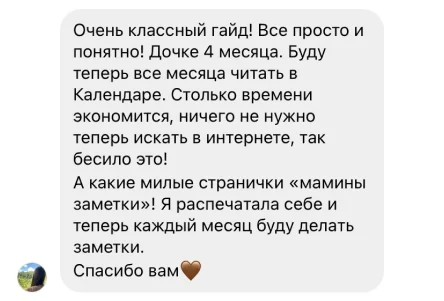
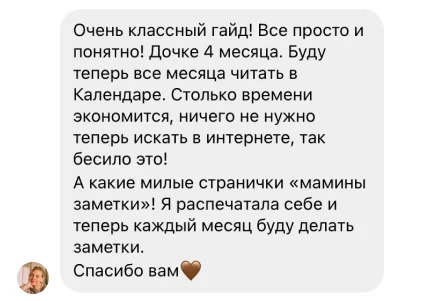
Добавил видео о калндаре + отзывы

Changed region(s): [[0.0293, 0.8671, 0.1171, 0.9867]]

diff --git a/src/pages/Calendar/Calendar.js b/src/pages/Calendar/Calendar.js
@@ -15,6 +15,7 @@ import whatsapp from "../../images/calendar/whatsapp.svg";
 import review1 from '../../images/calendar/review1.webp';
 import review2 from '../../images/calendar/review2.webp';
 import review3 from '../../images/calendar/review3.webp';
+import julia from '../../images/calendar/julia.webp';
 // import Swiper
 import { Swiper, SwiperSlide } from 'swiper/react';
 import { Pagination } from 'swiper';
@@ -61,7 +62,12 @@ const Calendar = () => {
       <section className="gayd-section about">
         <div className="wrapper">
           <div className="gayd-about-title">
-            <h2>Привет, я — Юля!</h2>
+            <div className="gayd-about-inner">
+              <h2>Привет, я — Юля!</h2>
+              <div className="gayd-about-img">
+                <img src={julia} alt="Фотография Юлии Раткевич"/>
+              </div>
+            </div>
             <p>
               Я мама и автор блога <Link to={''}>@momjulee</Link>,
               где делюсь полезными и простыми деями для творчества и развития детей, а также личным опытом о развитии и воспитании ребенка.
@@ -136,7 +142,9 @@ const Calendar = () => {
                     // https://developers.google.com/youtube/player_parameters
                     autoplay: 0,
                     modestbranding: 0,
-                    rel: 0
+                    rel: 0,
+                    loop: 1,
+                    playlist: 'U0PE6MKwb9c'
                   }}}
               />
             </div>

diff --git a/src/db.js b/src/db.js
@@ -15,7 +15,7 @@ export const products = [
       'Всего в книге десять занятий. Каждое занятие занимает четыре странички. Не торопите малыша во время задания, старайтесь ему помогать, но в то же время не подавляйте инициативы. Не оценивайте результаты ребёнка слишком строго и по окончании работы обязательно его похвалите.',
     payment: 'Тестовое описание оплаты',
     access: 'Тестовое описание доустап',
-    video: '',
+    video: 'qw9YFjMNpeI',
     link: ''
   },
   {

diff --git a/src/pages/Calendar/styles.css b/src/pages/Calendar/styles.css
@@ -70,6 +70,10 @@
   text-align: center;
 }
 
+.gayd-about-title {
+  text-align: left;
+}
+
 .gayd-about-title a {
   display: inline;
   color: #CD5352;
@@ -93,6 +97,19 @@
 
 .gayd-about-content p:not(:last-child) {
   margin-bottom: 15px;
+}
+
+.gayd-about-img {
+  width: 100px;
+  min-width: 100px;
+  height: 100px;
+  border-radius: 50%;
+  overflow: hidden;
+}
+
+.gayd-about-inner {
+  display: flex;
+  justify-content: space-between;
 }
 
 .gayd-box {

diff --git a/src/pages/Products/ProductsSingle.js b/src/pages/Products/ProductsSingle.js
@@ -1,6 +1,5 @@
-import React, {useContext, useEffect, useState} from 'react';
+import React, { useEffect, useState} from 'react';
 import {useParams} from "react-router-dom";
-import {Context} from "../../context";
 //  components
 import Header from "../../components/Header/Header";
 // styles
